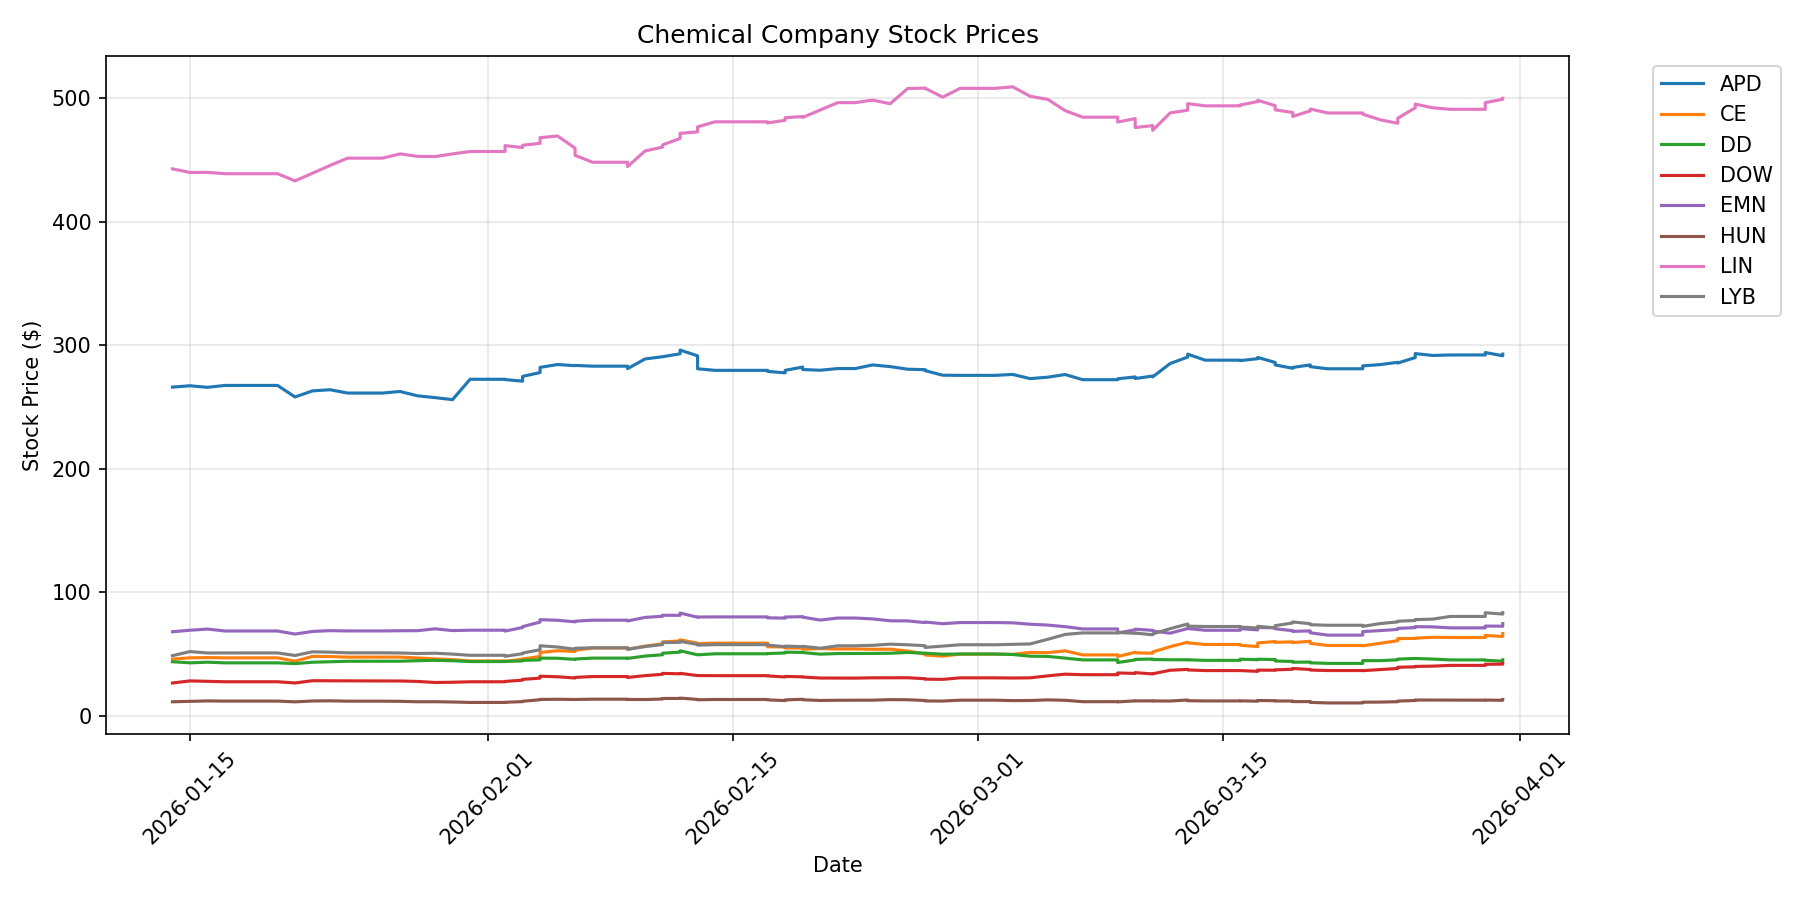
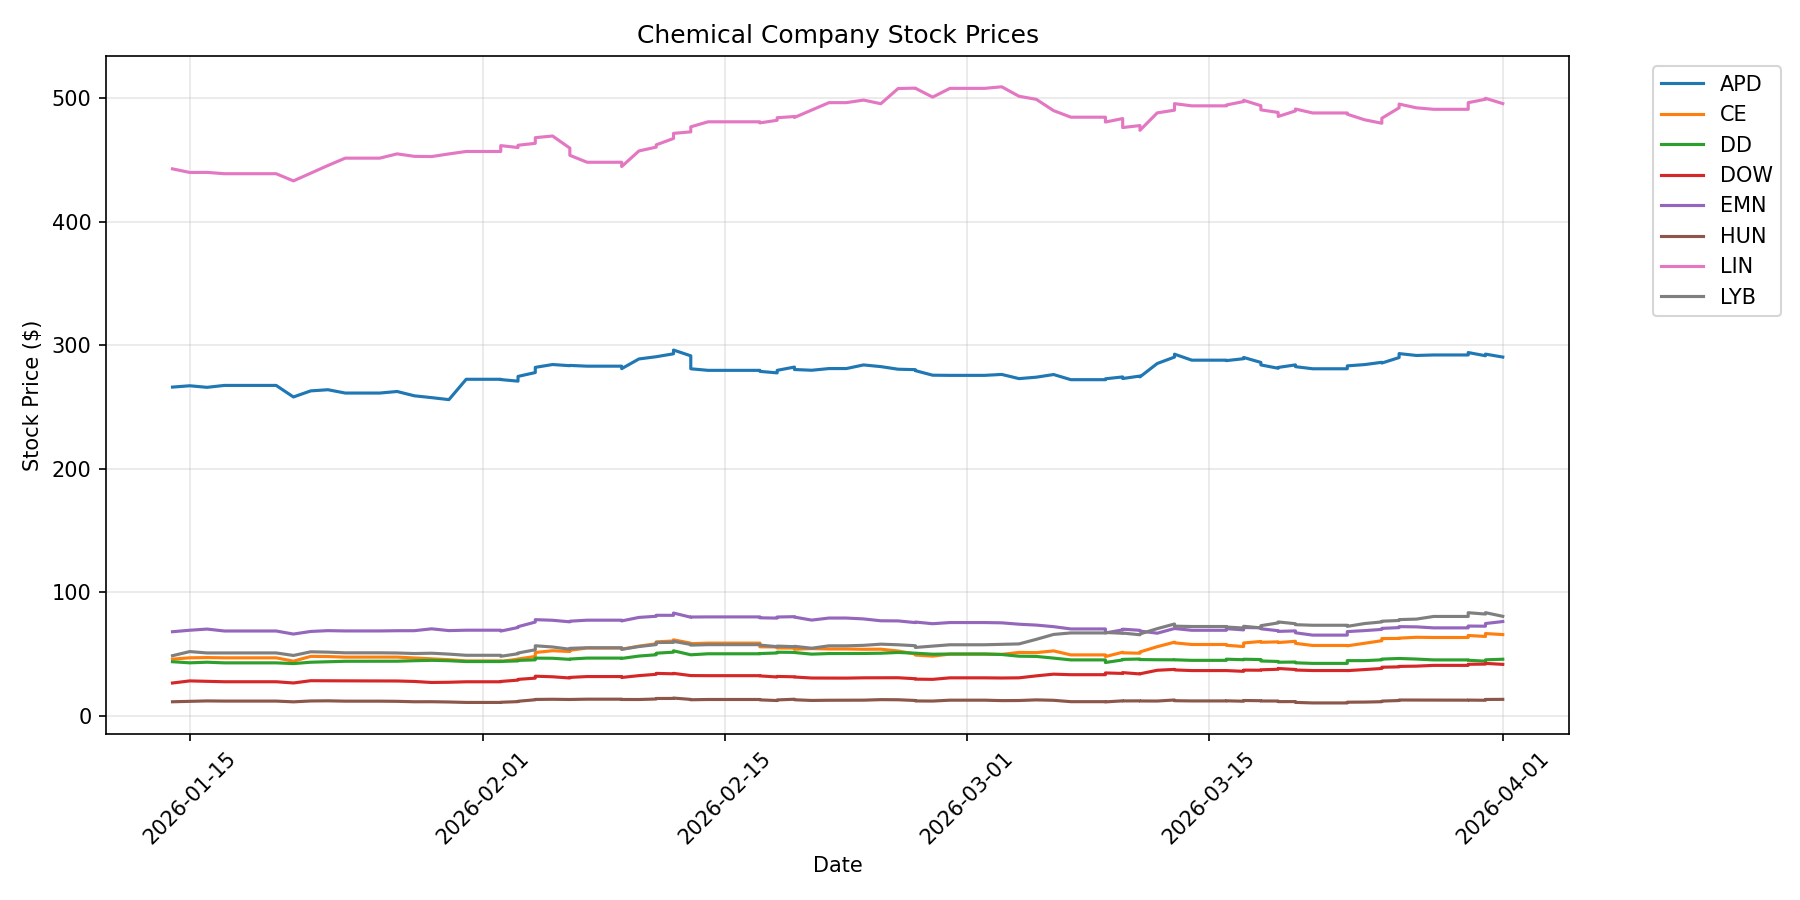
Daily price update: 2026-04-01

diff --git a/README.md b/README.md
@@ -2,29 +2,29 @@
 
 Automated daily tracking of chemical commodity prices and chemical company stocks.
 
-## Latest Prices (Updated: 2026-03-31)
+## Latest Prices (Updated: 2026-04-01)
 
 ### Energy Commodities
 
 | Commodity | Price | Change (24h) | Unit |
 |-----------|-------|--------------|------|
-| WTI Crude Oil | $102.31 | -0.57 (-0.55%) | $/barrel |
-| Brent Crude Oil | $106.69 | -6.09 (-5.40%) | $/barrel |
-| Natural Gas | $2.94 | +0.05 (+1.77%) | $/MMBtu |
-| Heating Oil | $4.13 | -0.24 (-5.46%) | $/gallon |
+| WTI Crude Oil | $101.38 | +0.00 (+0.00%) | $/barrel |
+| Brent Crude Oil | $118.35 | +0.00 (+0.00%) | $/barrel |
+| Natural Gas | $2.88 | +0.00 (+0.00%) | $/MMBtu |
+| Heating Oil | $4.16 | +0.00 (+0.00%) | $/gallon |
 
 ### Chemical Company Stocks
 
 | Company | Ticker | Price | Change (24h) |
 |---------|--------|-------|--------------|
-| Dow Inc. | DOW | $42.44 | +0.57 (+1.35%) |
-| LyondellBasell | LYB | $83.52 | +1.14 (+1.38%) |
-| DuPont | DD | $45.33 | +1.10 (+2.50%) |
-| Air Products | APD | $292.88 | +1.32 (+0.45%) |
-| Linde | LIN | $500.03 | +0.77 (+0.15%) |
-| Eastman Chemical | EMN | $74.72 | +2.17 (+2.99%) |
-| Celanese | CE | $66.60 | +2.35 (+3.66%) |
-| Huntsman | HUN | $13.23 | +0.66 (+5.21%) |
+| Dow Inc. | DOW | $41.65 | -0.22 (-0.53%) |
+| LyondellBasell | LYB | $80.56 | -1.82 (-2.21%) |
+| DuPont | DD | $45.80 | +1.58 (+3.57%) |
+| Air Products | APD | $290.49 | -1.07 (-0.37%) |
+| Linde | LIN | $495.76 | -3.50 (-0.70%) |
+| Eastman Chemical | EMN | $76.32 | +3.77 (+5.20%) |
+| Celanese | CE | $65.77 | +1.52 (+2.37%) |
+| Huntsman | HUN | $13.31 | +0.74 (+5.89%) |
 
 ## Data Sources
 

diff --git a/logs/update_log.md b/logs/update_log.md
@@ -139,3 +139,4 @@ Daily updates to the chemical engineering data repository.
 - **2026-03-30 14:29:56**: Updated 4 energy prices, 8 stocks, 0 FRED series
 - **2026-03-31 00:42:06**: Updated 4 energy prices, 8 stocks, 0 FRED series
 - **2026-03-31 14:29:30**: Updated 4 energy prices, 8 stocks, 0 FRED series
+- **2026-04-01 00:00:04**: Updated 4 energy prices, 8 stocks, 0 FRED series
